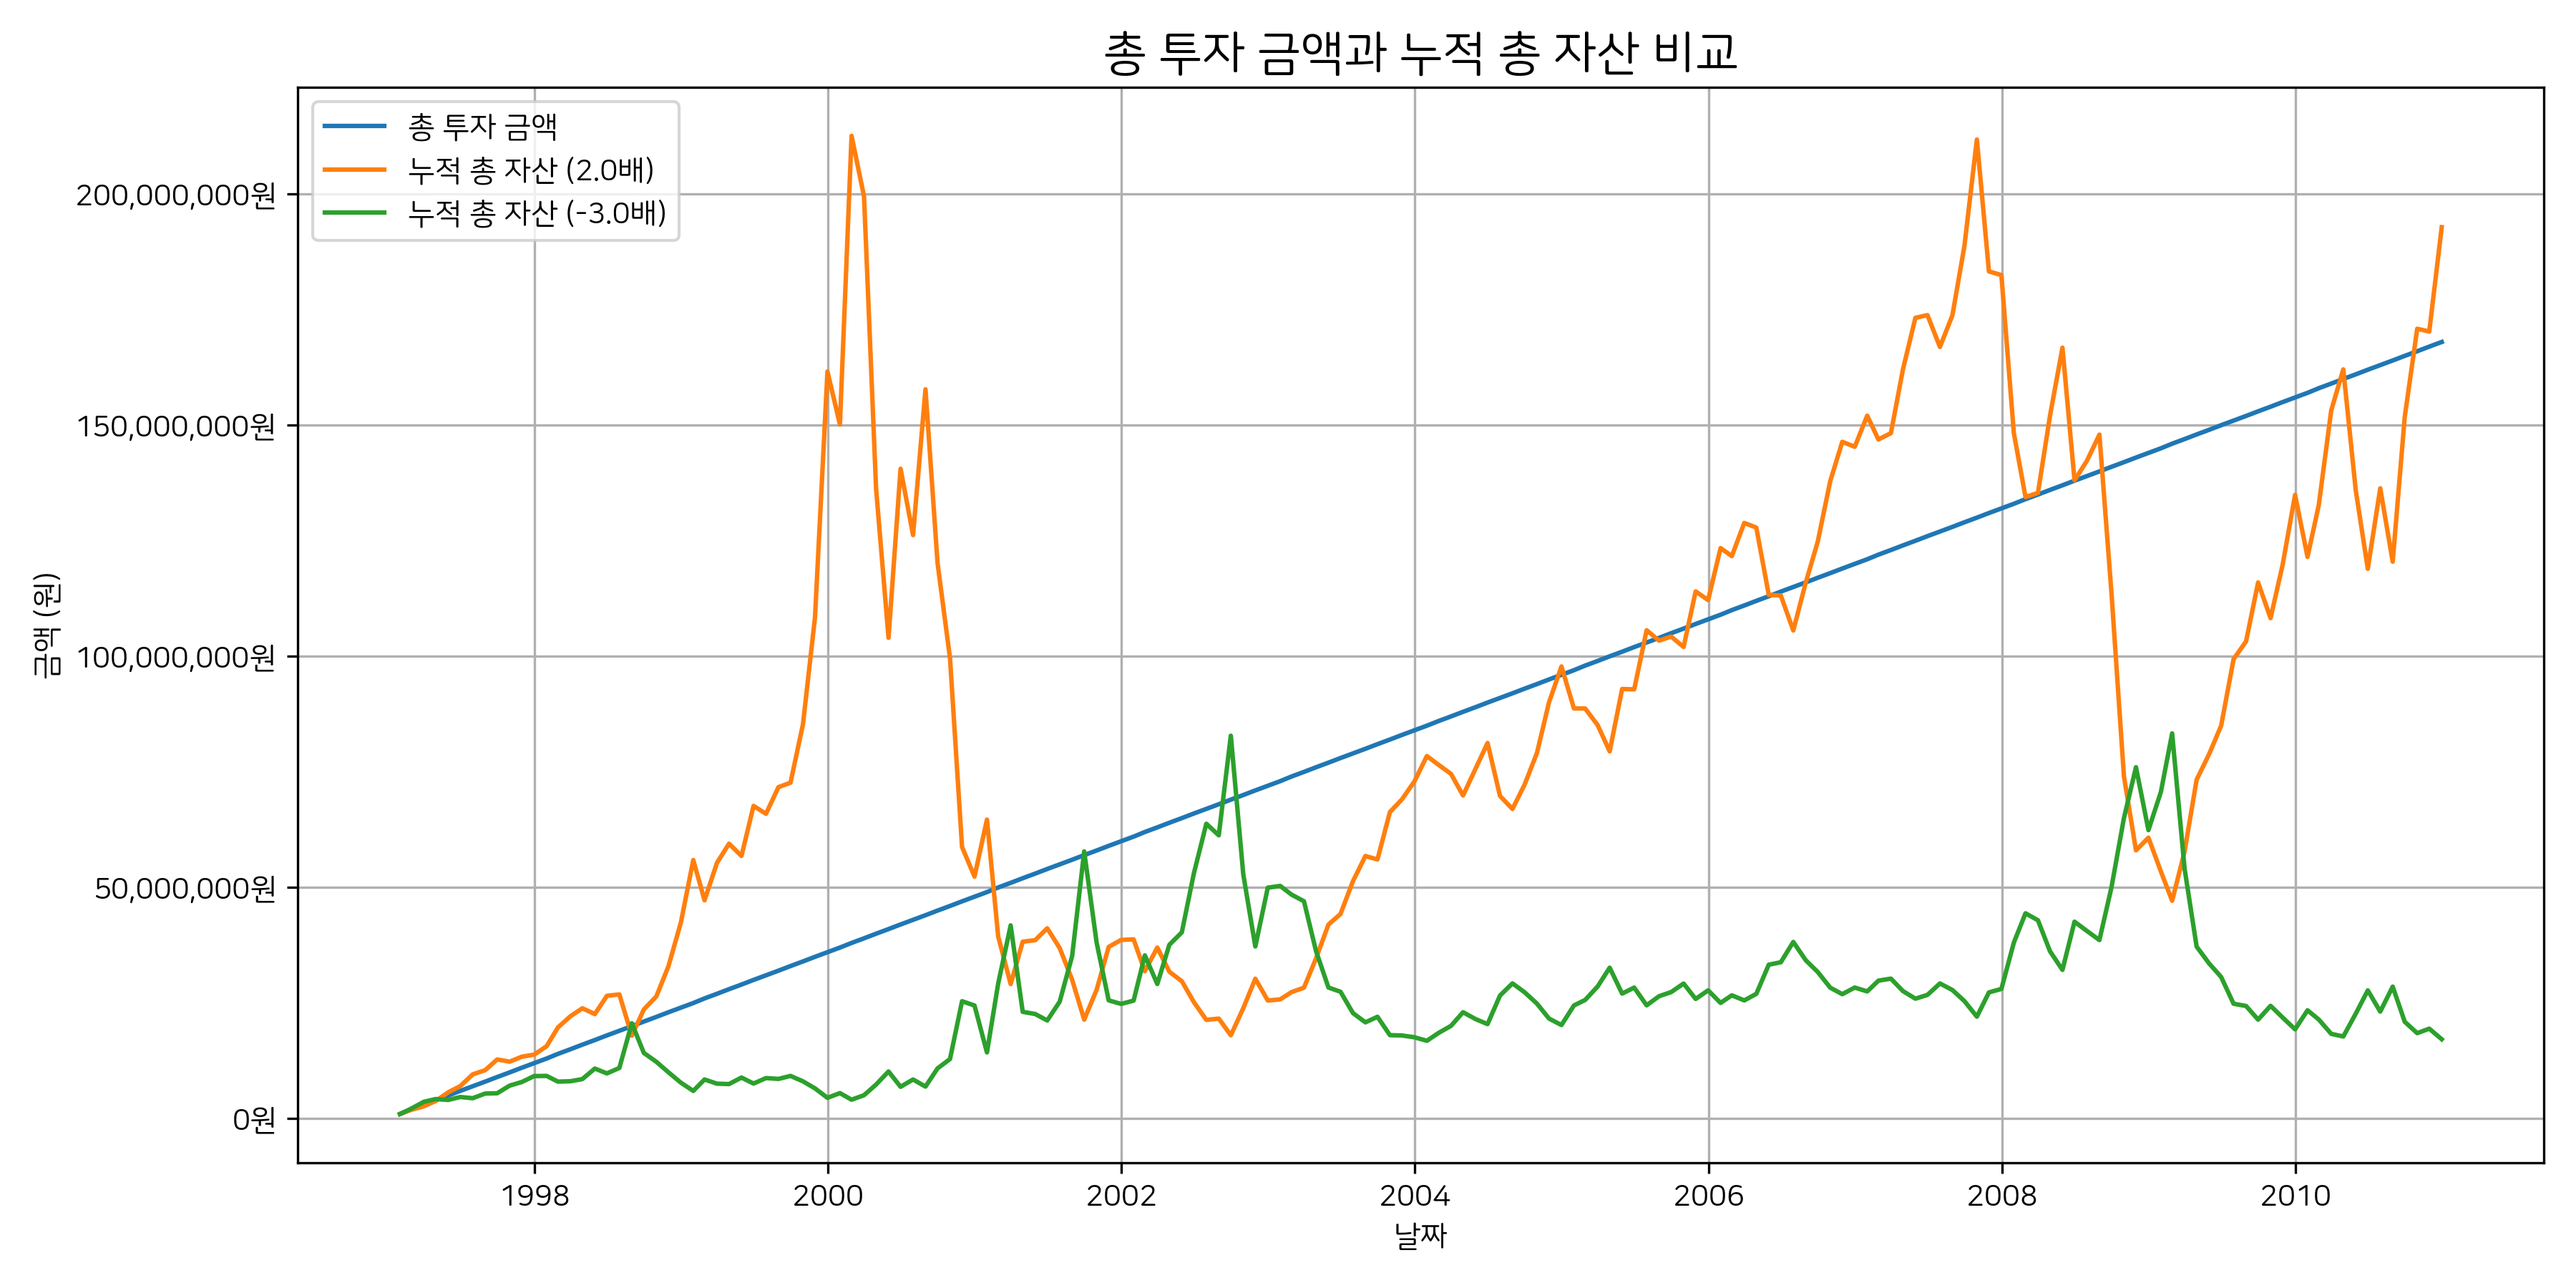
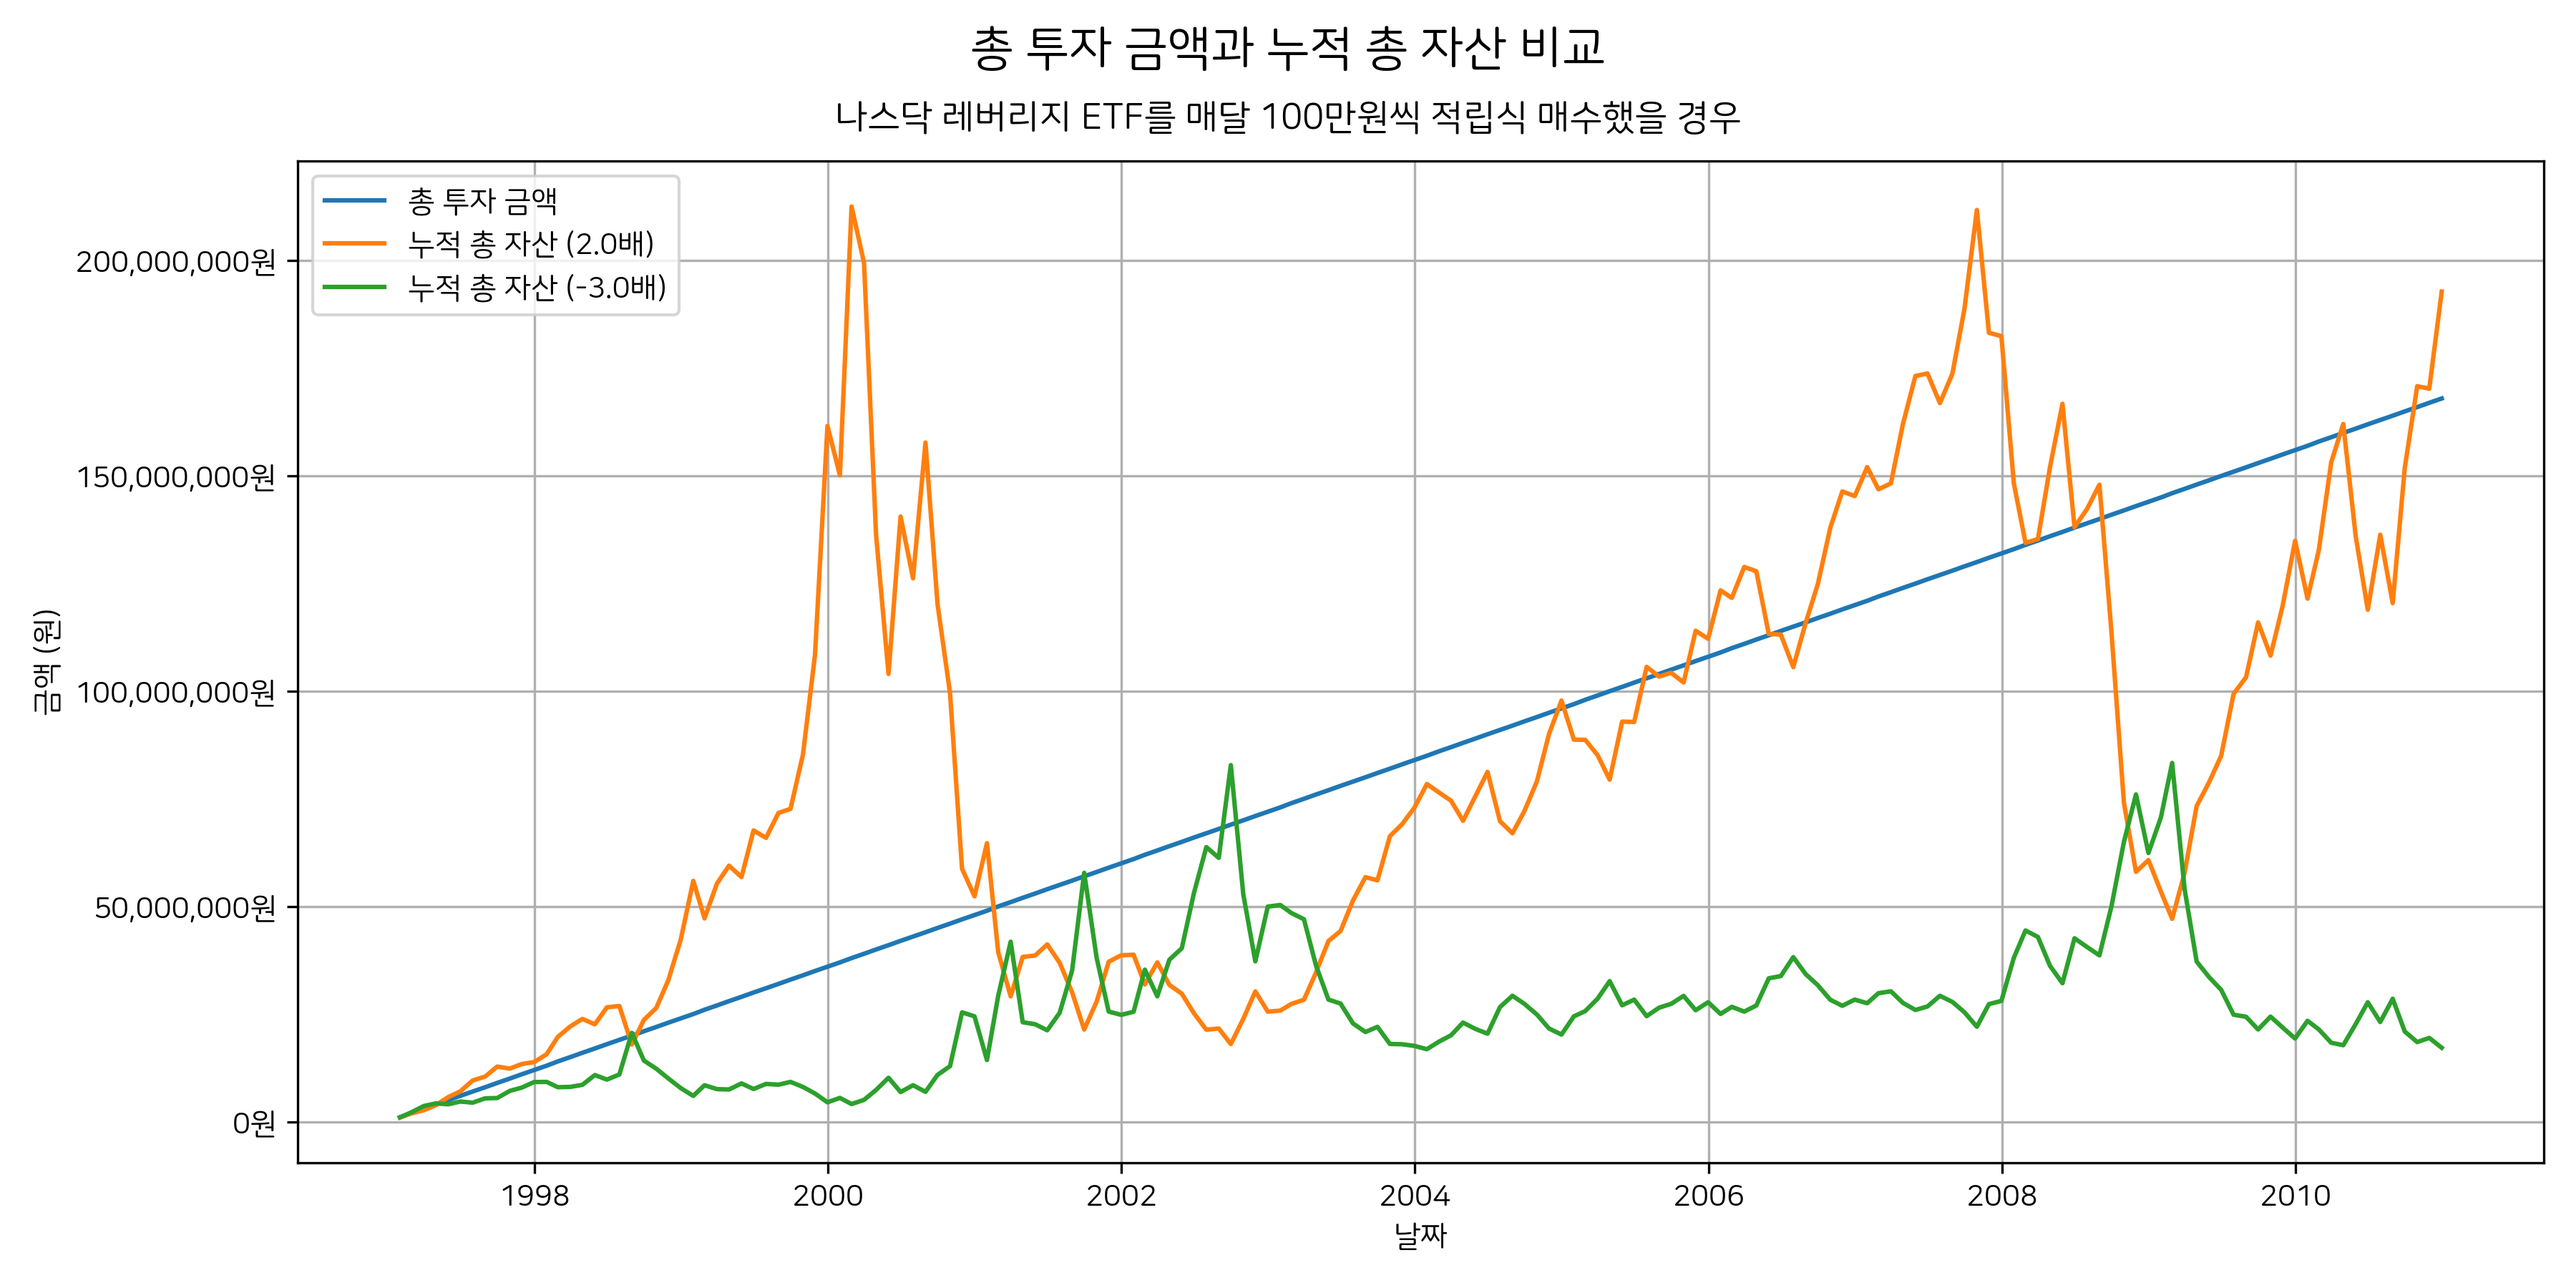
2410131807

diff --git a/nasdaq_investment_simulation.py b/nasdaq_investment_simulation.py
@@ -231,29 +231,34 @@ def main():
         output_df[f"누적 총 자산({leverage_ratio_2}배)"],
         label=f"누적 총 자산 ({leverage_ratio_2}배)",
     )
-    ax2.set_title(
-        "총 투자 금액과 누적 총 자산 비교", fontproperties=font_prop, fontsize=16
+    fig2.text(
+        0.5,
+        0.95,
+        "총 투자 금액과 누적 총 자산 비교",
+        ha="center",
+        fontproperties=font_prop,
+        fontsize=16,
+    )
+    fig2.text(
+        0.5,
+        0.9,
+        f"(나스닥 레버리지 ETF를 매달 {monthly_investment // 10000:,.0f}만원씩 적립식 매수했을 경우)",
+        ha="center",
+        fontproperties=font_prop,
+        fontsize=12,
     )
     ax2.set_xlabel("날짜", fontproperties=font_prop)
     ax2.set_ylabel("금액 (원)", fontproperties=font_prop)
     ax2.legend(prop=font_prop)
     ax2.grid(True)
     ax2.yaxis.set_major_formatter(ticker.FuncFormatter(lambda x, pos: f"{int(x):,}원"))
-    fig2.tight_layout()
+    fig2.tight_layout(rect=[0, 0, 1, 0.9])
 
     fig1.savefig("./output/nasdaq_index_comparison.png", dpi=300)
-    print(
-        "나스닥 지수 비교 차트 이미지가 '/output/nasdaq_index_comparison.png'로 저장되었습니다."
-    )
-
     fig2.savefig("./output/investment_vs_asset_value.png", dpi=300)
-    print(
-        "총 투자 금액과 누적 총 자산 비교 차트 이미지가 '/output/investment_vs_asset_value.png'로 저장되었습니다."
-    )
-
-    plt.show()
 
     output_file = "./output/investment_simulation.xlsx"
+
     try:
         with pd.ExcelWriter(output_file, engine="xlsxwriter") as writer:
             output_df.to_excel(writer, sheet_name="투자 결과", index=False)
@@ -468,7 +473,15 @@ def main():
     print(f"  - 최종 수익률: {final_return_2:.2f}% ({final_return_ratio_2:.2f}배)")
     print("=" * 40)
     print("시뮬레이션이 완료되었습니다.")
+    print(
+        "나스닥 지수 비교 차트 이미지가 '/output/nasdaq_index_comparison.png'로 저장되었습니다."
+    )
+    print(
+        "총 투자 금액과 누적 총 자산 비교 차트 이미지가 '/output/investment_vs_asset_value.png'로 저장되었습니다."
+    )
     print(f"자세한 데이터는 '{output_file}'에서 확인하세요.")
+
+    plt.show()
 
 
 if __name__ == "__main__":
